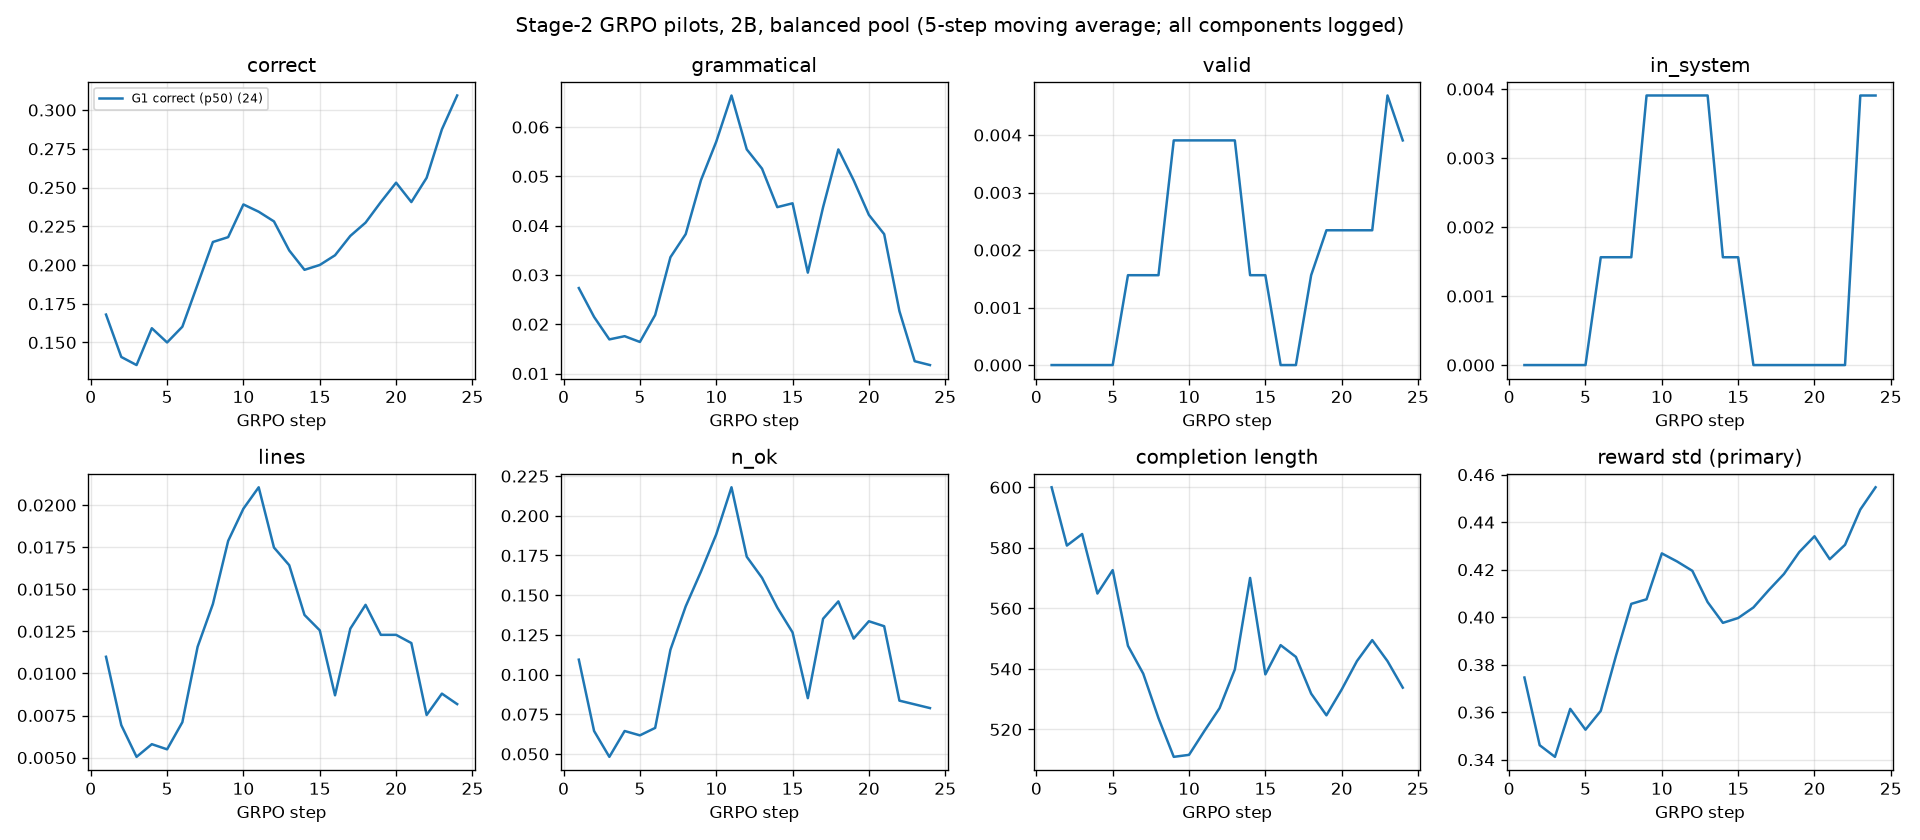
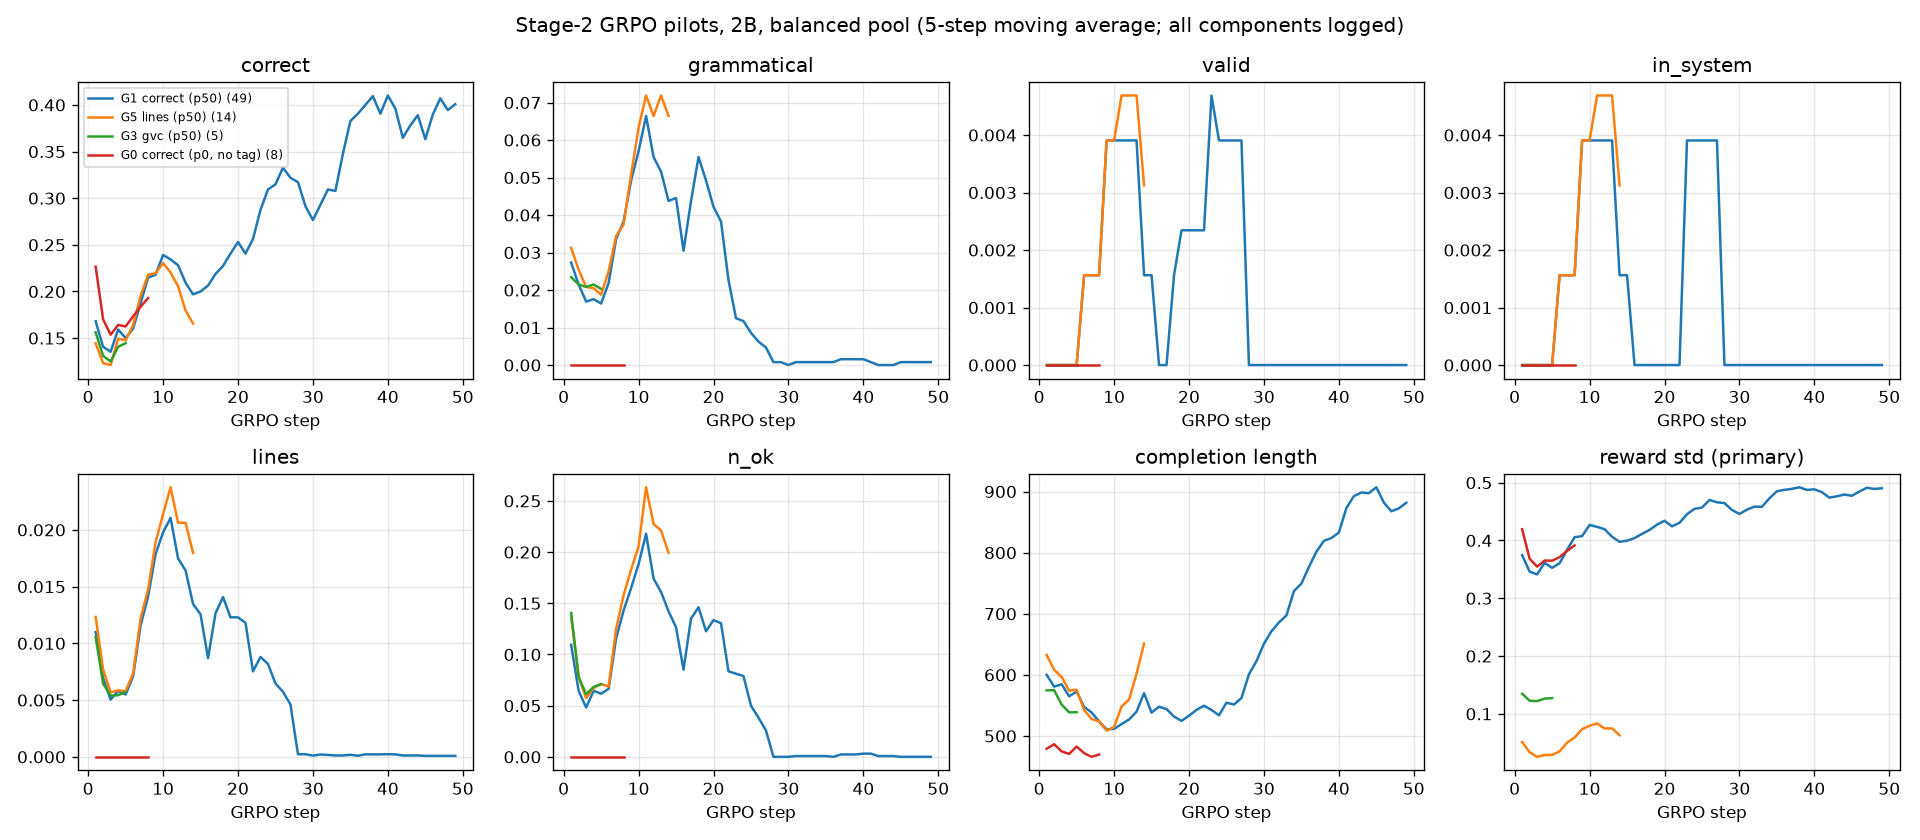
stage2: G1 correctness-only drops the formal format (grammatical -> 0 by step 24); curves refreshed
Claude-Session: https://claude.ai/code/session_01WnQYXLXLcnkw9LdZ4eJP3w

diff --git a/docs/running_experiments.md b/docs/running_experiments.md
@@ -14,7 +14,7 @@ This file is the live Slurm dashboard. Historical details live in `docs/operatio
 - **EI round 1b, prefix-resampling search:** 6946 (resubmit of 6939, which ran pre-fix code; 2B p50, gruenau12, `scripts/slurm/jobs/ei_prefix_search.slurm`). Resamples continuations from the checked prefix before the first failing line, for 3 rounds. Output: `<run>/ei_search_r1/{samples.jsonl,stats.json}`. **Done:** 26 → 50 prompts solved over 3 rounds; EI set `datasets/formal_ei_20260928/2b_r1` (77 proofs, 51 prompts). EI SFT deferred (GPU caps).
 - **GRPO pilots, dense rewards (submitted 2026-09-28):** 200 steps, 32 prompts × 8 samples, math/wordprob/yesno (DAPO dropped), `scripts/slurm/jobs/grpo_formal.slurm`, output `rlvl_data/grpo_formal_20260928/<RUN_NAME>/`.
   - 6940/6941/6943 OOMed in the fp32 logits upcast (per-device batch 8); resubmitted with `--per-device-batch 2` (same effective batch): 6947 G5 `lines` (2B p50, gruenau12 L40); 6948 G3 `gvc` (2B p50, gruenau9 A100); 6942 G1 `correct` (2B p50, gruenau10 A100); 6949 G0 `correct` no tag (2B p0, gruenau7 A6000).
-  - 2026-09-28 ~12:00: 6942/6949 cancelled (6949 put gruenau7 over the cap; the pool was 96% math). Balanced pool (`--max-per-bench 1200`: 1,200 math / 1,200 wordprob / 491 yesno), per-device batch 4, vllm-mem 0.3: **6960 G1 correct (gruenau10 A100), 6962 G0 no-tag p0 (gruenau8 A6000 batch 2, after 6727), 6964 G5 lines (gruenau12; its G3 arm died at start-up on a GPU shared with foreign processes, so G3 is now **6965** on gruenau8 A6000, with fallback 6966 on gruenau10 after G1, `grpo_formal_multi.slurm`: gres l40:3, both arms on the 2 freest GPUs, batch 1, vllm-mem 0.25; 6963 at batch 2 OOMed in the fp32 logits on the 44 GiB L40)**. 6959/6961 (gruenau9) died: another user's non-Slurm process took 49 GB of the GPU. 6955–6958 cancelled: `sbatch --export=...,EXTRA_ARGS="a,b"` splits at commas; export the variables in the shell and use `--export=ALL`.
+  - 2026-09-28 ~12:00: 6942/6949 cancelled (6949 put gruenau7 over the cap; the pool was 96% math). Balanced pool (`--max-per-bench 1200`: 1,200 math / 1,200 wordprob / 491 yesno), per-device batch 4, vllm-mem 0.3: **6960 G1 correct (gruenau10 A100), 6962 G0 no-tag p0 (gruenau8 A6000 batch 2, after 6727), 6964 G5 lines (gruenau12; its G3 arm died at start-up on a GPU shared with foreign processes, so G3 is now **6965** on gruenau8 A6000, `grpo_formal_multi.slurm`: gres l40:3, both arms on the 2 freest GPUs, batch 1, vllm-mem 0.25; 6963 at batch 2 OOMed in the fp32 logits on the 44 GiB L40)**. 6959/6961 (gruenau9) died: another user's non-Slurm process took 49 GB of the GPU. 6955–6958 cancelled: `sbatch --export=...,EXTRA_ARGS="a,b"` splits at commas; export the variables in the shell and use `--export=ALL`.
   - Question: does a dense line-credit reward (user suggestion, hardened) raise grammatical/valid rates before EI yields enough proofs?
 - **Next:** `build_ei_mixture.py --samples ei_collect_r1/samples.jsonl ei_search_r1/samples.jsonl` → continue SFT from 2B p50 (`INIT_MODEL`, `MIX_DIR`, `RUN_NAME` on the train slurm) → re-run the gate.
 

diff --git a/reports/2026-09-28_stage2_gate.md b/reports/2026-09-28_stage2_gate.md
@@ -192,10 +192,31 @@ The user suggested rewarding partial progress: "(#grammatical lines + #valid lin
 |---|---|---|---|
 | 6964 | G5 lines | p50, tagged | gruenau12 L40, batch 1 |
 | 6960 | G1 correct | p50, tagged | gruenau10 A100 |
-| 6965 | G3 gvc | p50, tagged | gruenau8 A6000, batch 1 (fallback 6966 on gruenau10 if it fails) |
+| 6965 | G3 gvc | p50, tagged | gruenau8 A6000, batch 1 |
 | 6962 | G0 correct | p0, no tag | gruenau8 A6000, after 6727 (batch 2) |
 
 The question: does a dense arm (G5, and G3) raise the grammatical and valid rates by itself, compared with correctness alone (G1)?
+
+### Early finding: correctness-only GRPO drops the formal format (G1, 6960, steps 0-49)
+
+Means over blocks of 6 steps (256 completions each) from the training log:
+
+| steps | correct | grammatical | has `<proof>` | mean length (tokens) |
+|---|---|---|---|---|
+| 0-5 | .16 | .023 | .31 | 556 |
+| 6-11 | .23 | .059 | .39 | 525 |
+| 18-23 | .30 | .010 | .30 | 538 |
+| 24-29 | .29 | .001 | .10 | 641 |
+| 36-41 | .38 | .001 | .13 | 880 |
+| 48 | .42 | .000 | .19 | 883 |
+
+Rewarding only the final answer raises correctness from .16 to .42 within 50 steps.
+At the same time the policy stops writing parseable proofs: grammatical falls from about 5% to 0
+by step 24, fewer completions open a `<proof>`, and the answers become longer and
+in natural language. With the `<formal>` tag, `correct` alone therefore does not preserve
+the formal chain of thought. This is the motivation for the G3 (gvc) and G5 (lines) arms. Their first steps:
+G5 (14 steps) keeps grammatical at .048 and has n_ok .16, and G3 (5 steps) is at .020. Neither
+has collapsed so far; it is too early to call a trend.
 
 ## Pending
 - Balanced GRPO pilots 6960 (G1), 6962 (G0), 6964 (G5; 6963 OOMed at batch 2 on the L40s), 6965 (G3): reward curves (grammatical / valid / in-system per step), then a gate re-run of each checkpoint.

diff --git a/docs/project_log.md b/docs/project_log.md
@@ -4153,3 +4153,4 @@ Downstream benchmarks of the "Lead into Gold" paper now run for every checkpoint
 - 12:25: 6959 (G5) and 6961 (G3) on gruenau9 died when another user started a non-Slurm process on the allocated A100. New `scripts/slurm/jobs/grpo_formal_multi.slurm` allocates 3 L40s on gruenau12 (cap 5) and runs several single-GPU arms on the freest devices. Resubmitted G5 + G3 as 6963. `grpo_formal.slurm` now counts GPUs from `CUDA_VISIBLE_DEVICES`.
 - 12:55: 6963 OOMed at step 2 (fp32 logits, batch 2, L40 44 GiB). Resubmitted as 6964 with per-device batch 1 and vllm-mem 0.25 (same effective batch). G1 6960 is at step 24/200, about 124 s/step.
 - 13:25: G5 (6964) is at step 6/200, ~203 s/step. Its G3 arm died at vLLM start-up (6 GB free: foreign processes; Slurm's GPU IDX order is not nvidia-smi's, so grpo_formal_multi cannot reliably pick clean GPUs). G3 resubmitted as 6965 (gruenau8 A6000, the free cap slot after 6727), fallback 6966. G1 6960 is at 36/200, G0 6962 at 1/200 (312 s/step on A6000).
+- 13:50: G1 (correct only, tagged) at step 49: correct .16→.42, but grammatical .05→0 by step 24 and has_proof .31→.19, length 556→883. Correctness-only RL abandons the formal format; recorded in the stage-2 report. G3 6965 healthy (step 5, 280 s/it), fallback 6966 cancelled. G5 step 14 (grammatical .048, n_ok .16), G0 step 8.
